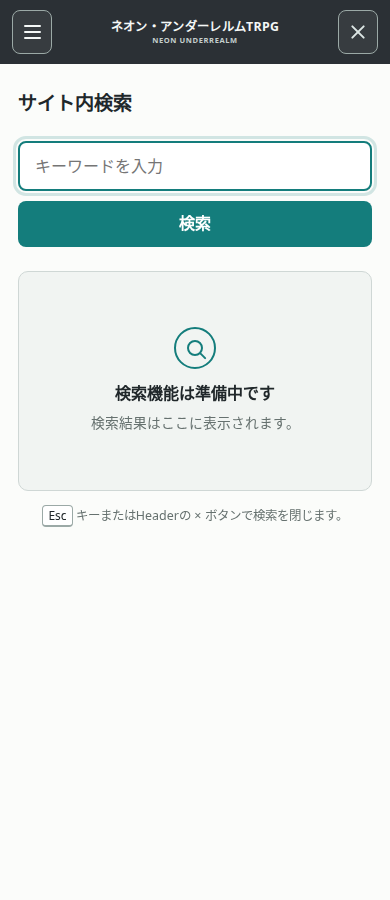
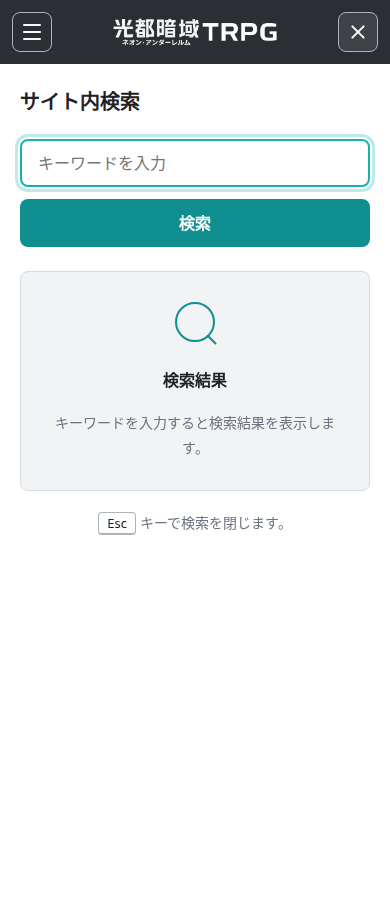
docs: canonicalize search modal states

diff --git a/tests/node/canonicalize-visual-design.test.ts b/tests/node/canonicalize-visual-design.test.ts
@@ -79,6 +79,53 @@ describe("visual design canonicalization", () => {
     );
   });
 
+  it("copies state-specific visual artifacts with separate design filenames", async () => {
+    const rootDir = await prepareFixture();
+    const startedAt = new Date().toISOString();
+    await writeFile(
+      path.join(rootDir, "test-results/visual/advancement-results-desktop.png"),
+      "results desktop",
+    );
+    await writeFile(
+      path.join(rootDir, "test-results/visual/advancement-results-mobile.png"),
+      "results mobile",
+    );
+    await writeManifest(rootDir, {
+      completedAt: new Date(Date.parse(startedAt) + 2_000).toISOString(),
+      head: "abc123",
+      startedAt,
+    });
+    await setScreenshotTimes(rootDir, new Date(Date.parse(startedAt) + 1_000), [
+      "advancement-results-desktop.png",
+      "advancement-results-mobile.png",
+    ]);
+
+    const result = await canonicalizeVisualDesign({
+      branch: "26-2-advancement-page",
+      head: "abc123",
+      rootDir,
+      route: "/advancement/",
+      state: "results",
+      target: "advancement",
+    });
+
+    assert.equal(
+      await readFile(
+        path.join(result.designDirectory, "design-desktop-results.png"),
+        "utf8",
+      ),
+      "results desktop",
+    );
+    assert.equal(
+      await readFile(
+        path.join(result.designDirectory, "design-mobile-results.png"),
+        "utf8",
+      ),
+      "results mobile",
+    );
+    assert.match(await readFile(result.notesPath, "utf8"), /--state results/);
+  });
+
   it("rejects screenshots modified after the capture completes", async () => {
     const rootDir = await prepareFixture();
     const startedAt = new Date().toISOString();
@@ -312,8 +359,12 @@ async function prepareFixture(): Promise<string> {
   return rootDir;
 }
 
-async function setScreenshotTimes(rootDir: string, time: Date): Promise<void> {
-  for (const name of ["advancement-desktop.png", "advancement-mobile.png"]) {
+async function setScreenshotTimes(
+  rootDir: string,
+  time: Date,
+  names = ["advancement-desktop.png", "advancement-mobile.png"],
+): Promise<void> {
+  for (const name of names) {
     const file = path.join(rootDir, "test-results/visual", name);
     await utimes(file, time, time);
     assert.ok((await stat(file)).mtimeMs > 0);

diff --git a/scripts/canonicalize-visual-design/lib.ts b/scripts/canonicalize-visual-design/lib.ts
@@ -34,6 +34,7 @@ export type CanonicalizeVisualDesignOptions = {
   head: string;
   rootDir: string;
   route: string;
+  state?: string;
   target: string;
 };
 
@@ -50,6 +51,7 @@ export async function canonicalizeVisualDesign(
 ): Promise<CanonicalizeVisualDesignResult> {
   validateTarget(options.target);
   validateRoute(options.route);
+  validateState(options.state);
 
   const sourceDirectory = path.join(options.rootDir, "test-results/visual");
   const designDirectory = path.join(
@@ -57,13 +59,14 @@ export async function canonicalizeVisualDesign(
     "docs/design",
     options.target,
   );
+  const stateSuffix = options.state ? `-${options.state}` : "";
   const desktopSource = path.join(
     sourceDirectory,
-    `${options.target}-desktop.png`,
+    `${options.target}${stateSuffix}-desktop.png`,
   );
   const mobileSource = path.join(
     sourceDirectory,
-    `${options.target}-mobile.png`,
+    `${options.target}${stateSuffix}-mobile.png`,
   );
   const notesPath = path.join(designDirectory, "notes.md");
   const manifest = await readCaptureManifest(
@@ -84,14 +87,21 @@ export async function canonicalizeVisualDesign(
     branch: options.branch,
     head: options.head,
     route: options.route,
+    state: options.state,
     target: options.target,
   });
 
   await replaceDesignArtifacts(
     {
-      desktopDestination: path.join(designDirectory, "design-desktop.png"),
+      desktopDestination: path.join(
+        designDirectory,
+        `design-desktop${stateSuffix}.png`,
+      ),
       desktopSource,
-      mobileDestination: path.join(designDirectory, "design-mobile.png"),
+      mobileDestination: path.join(
+        designDirectory,
+        `design-mobile${stateSuffix}.png`,
+      ),
       mobileSource,
       notes: updatedNotes,
       notesPath,
@@ -219,6 +229,7 @@ function replaceCanonicalizationSource(
     branch: string;
     head: string;
     route: string;
+    state?: string;
     target: string;
   },
 ): string {
@@ -233,10 +244,13 @@ function replaceCanonicalizationSource(
 
   const block = [
     sourceStart,
-    `- command: \`npm run visual:canonicalize -- ${values.target} --route ${values.route}\``,
+    `- command: \`npm run visual:canonicalize -- ${values.target} --route ${values.route}${
+      values.state ? ` --state ${values.state}` : ""
+    }\``,
     `- source branch: \`${values.branch}\``,
     `- source commit: \`${values.head}\``,
     `- route: \`${values.route}\``,
+    `- state: \`${values.state ?? "default"}\``,
     `- viewport: desktop ${supportedViewports.desktop}, mobile ${supportedViewports.mobile}`,
     `- capture manifest: \`test-results/visual/capture-manifest.json\``,
     sourceEnd,
@@ -277,6 +291,14 @@ function validateTarget(target: string): void {
   if (!/^[a-z0-9-]+$/.test(target)) {
     throw new Error(
       "Design target must use lowercase letters, digits, and hyphens.",
+    );
+  }
+}
+
+function validateState(state: string | undefined): void {
+  if (state !== undefined && !/^[a-z0-9-]+$/.test(state)) {
+    throw new Error(
+      "State must use lowercase letters, digits, and hyphens when provided.",
     );
   }
 }

diff --git a/scripts/canonicalize-visual-design/main.ts b/scripts/canonicalize-visual-design/main.ts
@@ -9,20 +9,30 @@ async function readGitValue(args: string[]): Promise<string> {
   return stdout.trim();
 }
 
-function readArguments(args: string[]): { route: string; target: string } {
-  const [target, routeFlag, route] = args;
+function readArguments(args: string[]): {
+  route: string;
+  state?: string;
+  target: string;
+} {
+  const [target, routeFlag, route, stateFlag, state] = args;
 
-  if (!target || routeFlag !== "--route" || !route || args.length !== 3) {
+  if (
+    !target ||
+    routeFlag !== "--route" ||
+    !route ||
+    (args.length !== 3 &&
+      (args.length !== 5 || stateFlag !== "--state" || !state))
+  ) {
     throw new Error(
-      "Usage: npm run visual:canonicalize -- <design-target> --route /route/",
+      "Usage: npm run visual:canonicalize -- <design-target> --route /route/ [--state state]",
     );
   }
 
-  return { target, route };
+  return { target, route, state };
 }
 
 async function main(): Promise<void> {
-  const { target, route } = readArguments(process.argv.slice(2));
+  const { target, route, state } = readArguments(process.argv.slice(2));
   const [branch, head] = await Promise.all([
     readGitValue(["branch", "--show-current"]),
     readGitValue(["rev-parse", "HEAD"]),
@@ -32,6 +42,7 @@ async function main(): Promise<void> {
     head,
     rootDir: process.cwd(),
     route,
+    state,
     target,
   });
 

diff --git a/tests/visual/search-modal.spec.ts b/tests/visual/search-modal.spec.ts
@@ -171,6 +171,10 @@ test("search panel displays a Pagefind data-card anchor result @search-modal-res
   await expect(
     page.locator('.search-result-link[href$="#skill-common-bonus-a-001"]'),
   ).toBeVisible();
+  await page.screenshot({
+    fullPage: false,
+    path: `${visualOutputDir}/search-modal-results-mobile.png`,
+  });
 });
 
 test("search panel guides one-character kana and ASCII searches @search-modal-query-validation", async ({

diff --git a/docs/design/search-modal/notes.md b/docs/design/search-modal/notes.md
@@ -2,25 +2,24 @@
 
 ## Mode
 
-- initial draft
+- design fix
 
 ## Target
 
-- page / component: `SearchButton.astro`、`SearchModal.astro`、`Header.astro` と `AppContainer.astro` の検索UI接続
-- route: 共通Layout。design draftの代表routeは、desktop / mobileともに `/mdx-test/` とする。
+- page / component: `SearchModal.astro`、`SearchButton.astro`、`Header.astro` と `AppContainer.astro` の検索UI接続
+- route: `/data/common-skills/`
 - viewport:
   - desktop: `1440x1200`
   - mobile: `390x900`
 - states:
-  - desktop Headerの検索入力欄と、その直下に展開した結果panel
-  - mobile Header右側の検索アイコンから開いた検索panel
-  - どちらも検索結果が未接続である空の結果枠を示す
+  - desktop / mobileの検索モーダル初期状態
+  - desktop / mobileのデータカード検索結果表示状態
 
 ## Referenced SSoT
 
 - `AGENTS.md`
 - `.agents/skills/design-image-generation/SKILL.md`
-- historical issue: `docs/issue/done/phase-4/44-search-modal-ui.md`
+- `docs/issue/45-search-pagefind-integration.md`
 - `docs/requirements/search.md`
 - `docs/requirements/layout-navigation.md`
 - `docs/requirements/architecture.md`
@@ -30,58 +29,59 @@
 - `docs/design/global-styles/notes.md`
 - `docs/design/header-footer/notes.md`
 - `docs/design/site-layout/notes.md`
-- `docs/design/mobile-menu/notes.md`
-- `docs/design/mobile-page-toc/notes.md`
 
 ## Design direction
 
-- visual direction: 白寄りの本文面、暗めニュートラルグレーHeader、控えめな青緑accentを維持する。検索UIを独立したアプリ画面や強いneon演出にせず、既存ルールサイトの実務的な密度で扱う。
-- layout direction: desktopではHeader右側の検索入力欄を使い、その直下に検索結果panelを展開する。検索表示中はHeaderを除く本文と左右レールを薄いscrimで抑え、入力欄と結果panelを明るく保つ。mobileではHeaderの下からviewport下端までを使う検索panelとし、Headerのロゴと左右の操作領域を覆わない。mobileのsearch panelはsite menuの左drawerやH1付近のpage TOC panelに見えない配置にする。
-- search contents: desktopの検索入力欄とmobile panelには検索語入力欄と検索結果領域を置く。mobile panel内には閉じるbuttonを重複して置かず、Header右側の検索アイコンを表示中の `×` 操作に切り替える。task 44では実検索を接続しないため、結果領域には検索結果の代わりに「検索機能は準備中です」のように未接続状態を誤認させない短い案内を置く。
-- typography direction: 見出しと入力欄の用途が区別できるsystem fontと既存の文字サイズ階層を使う。入力欄のplaceholderや未接続案内を装飾的な英語ラベルだけにしない。
-- color / accent usage: 入力欄、Header右側の `×`、検索起点のfocus / hoverを既存のborder、focus ring、青緑accentで示す。検索panel全体をmagentaや発光で強調しない。scrimは背景が操作対象ではないと分かる濃度に抑える。
+- visual direction: 白寄りの本文面、暗めニュートラルグレーHeader、控えめな青緑accentを維持する。検索語の一致箇所は操作accentと区別できる黄色で示す。
+- layout direction: desktopではHeader右側の検索入力欄から、その直下に展開する結果panelを使う。結果表示時はpanel全体をscroll領域とし、二重のグレー枠を作らない。mobileではHeader下からviewport下端までを使う検索panelとする。
+- typography direction: ページタイトル、該当セクション、抜粋、種別ラベルを用途ごとに区別し、同じページタイトルを重複表示しない。
+- color / accent usage: 検索起点のfocus / hoverには既存の青緑accentを使い、結果抜粋と遷移先本文の検索語には `#ffe36e` の黄色を使う。scrimは背景が操作対象ではないと分かる濃度に抑える。
 
 ## Existing design constraints
 
 - `global-styles` の白寄り背景、暗めHeader、控えめな青緑accent、実務的な余白と角丸を維持する。
-- `header-footer` のdesktop Header高さ `88px`、mobile Header高さ `64px`、desktopの検索入力欄風の起点、mobileの右側検索アイコンの位置を維持する。
-- desktopの検索起点は既存の入力欄mockと同じHeader右側の領域を使い、実装では検索語を入力できる実入力欄とする。検索結果panelはこの入力欄の直下に揃える。
-- mobileではfull logoを維持し、右側検索アイコンと左側menu buttonを同じ大きさの操作領域として扱う。検索表示中の右側操作は `×` に切り替え、検索panelを閉じる。
-- `site-layout`、`mobile-menu`、`mobile-page-toc` の役割差を維持する。検索panelはsite menuの階層リンクやpage TOCの見出しリンクを含まず、mobileではこれらのoverlayと同時に開かない。
-- 検索を開く前にmenuまたはpage TOCが開いている場合はそれらを閉じる。検索表示中にmenuまたはpage TOCを開く場合は検索を閉じる。
-- mobile検索表示中は背景本文をスクロールさせず、Headerを表示状態に維持する。
+- `header-footer` のdesktop Header高さ `88px`、mobile Header高さ `64px`、desktopの検索入力欄、mobileの右側検索アイコンの位置を維持する。
+- desktopの検索結果panelは検索入力欄の直下に揃え、Headerを覆わない。検索表示中はHeader下の背景本文と左右レールをscrimで抑える。
+- mobile検索panelはHeaderのロゴと左右の操作領域を覆わず、site menu・page TOCと同時に開かない。
+- desktopでは検索表示中の背景本文をscrollさせず、結果の長さはpanel内のscrollで扱う。Escまたはscrimで閉じたdesktop入力はfocusを外す。
 
 ## Out of scope
 
-- Pagefindの検索実行、検索index生成、検索結果クリックによる遷移
-- 検索対象の除外、ページタイトル、見出し、抜粋、種別ラベルなどの検索結果metadata
 - 検索専用ページ、検索履歴、保存検索、候補表示、絞り込み、ソート、ページネーション
 - 外部検索サービス、APIキー、認証、DB、SSR、APIサーバー
 - SiteMenu、MobileSiteMenuDrawer、PageToc、MobilePageToc、Footerの再設計
 - パンくずリスト、前後ナビゲーション、現在位置ハイライト、analytics UI
-- 追加のicon package、UI framework、大きなUIライブラリ、過剰なanimation
+- ブラウザ標準Text Fragmentによる検索遷移先ハイライト
 
 ## Comparison points for implementation
 
-- desktopでHeader右側の検索入力欄、その直下の結果panel、薄いscrim、未接続の結果枠が既存layoutと視覚的に整合する。scrimはHeaderを覆わず、入力欄と結果panelの可読性を下げない。
-- mobileでHeaderのロゴと左右buttonを残したまま、Header下から検索panelが表示される。右側buttonは `×` に切り替わり、panelはmobile menu drawerやmobile page TOC panelと見分けられる。
-- desktop / mobileともに入力欄、結果領域、未接続案内の順序が視覚的にもキーボード操作順としても自然である。
-- focus ring、hover、disabledではない検索起点が、既存Header buttonの見た目と矛盾しない。
-- mobileで背景本文が操作可能に見えず、検索、site menu、page TOCのoverlayが同時表示されない。
-- 許容できる差分: desktop結果panelの幅、mobile panelの余白、scrim濃度、検索iconと閉じるiconの細部、未接続案内の短い文言。
-- レビューが必要な差分: desktopの結果panelを検索入力欄と無関係な位置へ置くこと、Headerを覆い隠すmobile panel、検索panelを左drawerやH1付近のTOC panelに見せる構成、実検索結果に見える固定コンテンツ、過剰なneon演出、新しい検索機能やfilter UIの追加。
+- desktop初期状態ではHeader右側の検索入力欄、直下の案内枠、薄いscrimを示す。検索結果状態ではpanelの高さをviewport上半分程度に収め、結果カードとscrollbarをpanel内に置く。
+- mobile初期状態ではHeader下の全高panel、検索入力と送信button、案内枠を示す。検索結果状態では同じpanel内に結果カードを並べる。
+- desktop / mobileともに結果カードは種別ラベル、ページタイトル、該当セクション、抜粋を表示し、検索語を黄色で明確に示す。
+- 違いがレビュー対象: Headerを覆い隠すmobile panel、desktopで背景本文がscrollする状態、desktop結果時の二重枠・内側scrollbar、検索結果のページタイトル重複、黄色以外で見分けにくい検索語highlight。
 
 ## Generation source
 
-- prototype or generator source: `.tmp/design/search-modal/prototype.html` と `.tmp/design/search-modal/capture.mjs` を使い、Playwright Chromiumでstandalone prototypeをcaptureした。実アプリのrouteや実装スクリーンショットは使っていない。
-- source branch / commit when applicable: `44-search-modal-ui` / `513ed9c`
-- route when applicable: prototype内で既存の `/mdx-test/` 相当のHeader、本文、左右レール、mobile page TOCの文脈を再現する。実アプリのrouteはcapture元にしない。
-- viewport: desktop `1440x1200`、mobile `390x900`
+- implementation source: reviewed task 45 implementation on `45-search-pagefind-integration`.
 - output images:
   - `docs/design/search-modal/design-desktop.png`
   - `docs/design/search-modal/design-mobile.png`
-- prototype path / prompt summary / capture notes: desktop / mobileとも検索表示状態をcaptureした。desktopはHeader右側の検索入力欄の直下へ結果panelを置き、Header下の背景に薄いグレーscrimを重ねた。mobileはHeaderを表示したままその下を全高panelにし、右側検索アイコンを `×` へ切り替えた。両方で検索語入力欄、未接続の結果枠、Escの案内を表示し、mobileでsite menu / page TOCと見分けられることを確認した。
+  - `docs/design/search-modal/design-desktop-results.png`
+  - `docs/design/search-modal/design-mobile-results.png`
+
+<!-- visual-canonicalization:start -->
+
+- command: `npm run visual:canonicalize -- search-modal --route /data/common-skills/ --state results`
+- source branch: `45-search-pagefind-integration`
+- source commit: `e6867f8662471b6741e0232b49679e2b431592c3`
+- route: `/data/common-skills/`
+- state: `results`
+- also canonicalized: default state from the same capture manifest
+- viewport: desktop 1440x1200, mobile 390x900
+- capture manifest: `test-results/visual/capture-manifest.json`
+
+<!-- visual-canonicalization:end -->
 
 ## Open questions
 
-- なし。画像作成時に、未接続案内の最終文言だけをdesignの可読性に合わせて短く調整してよい。
+- なし。

diff --git a/docs/issue/45-search-pagefind-integration.md b/docs/issue/45-search-pagefind-integration.md
@@ -140,7 +140,7 @@
 
 ### design-image-generation への引き継ぎ候補
 
-- [ ] 実装スクリーンショットをdesign正本化する必要がある場合は、design fix modeへ引き継ぐ。
+- [x] 実装スクリーンショットをdesign正本化する必要がある場合は、design fix modeへ引き継ぐ。
 
 ### 対応完了チェックリスト
 